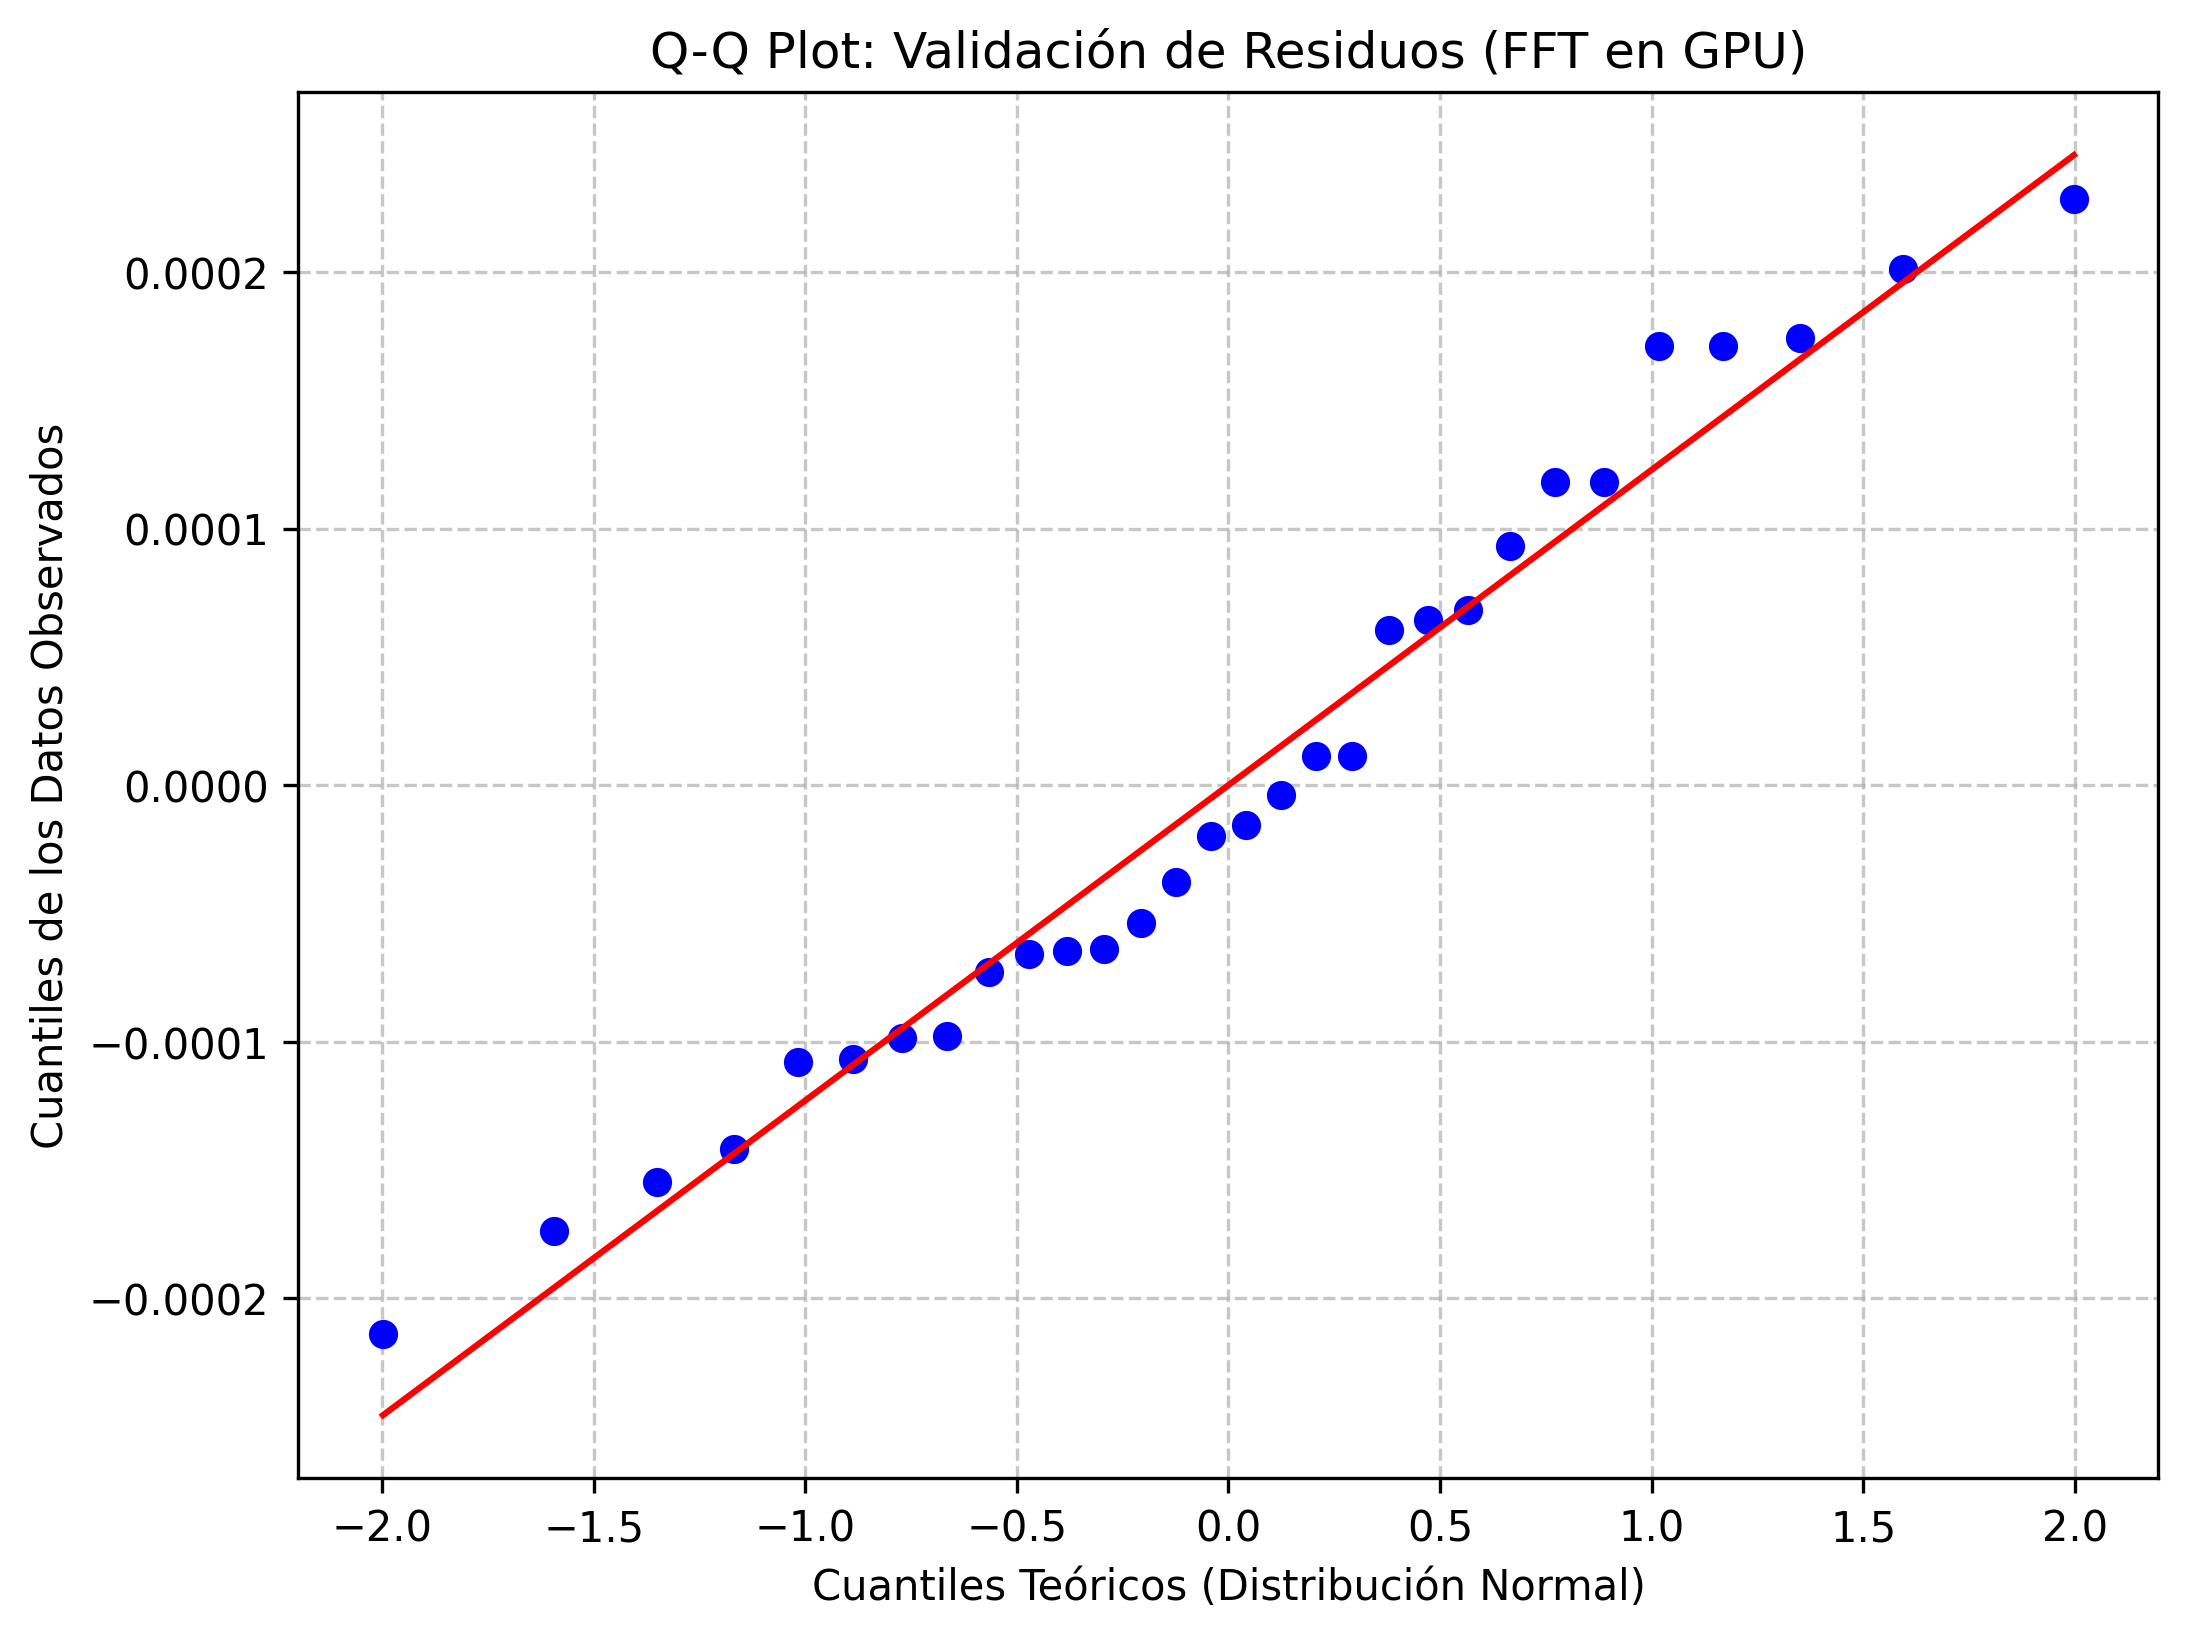
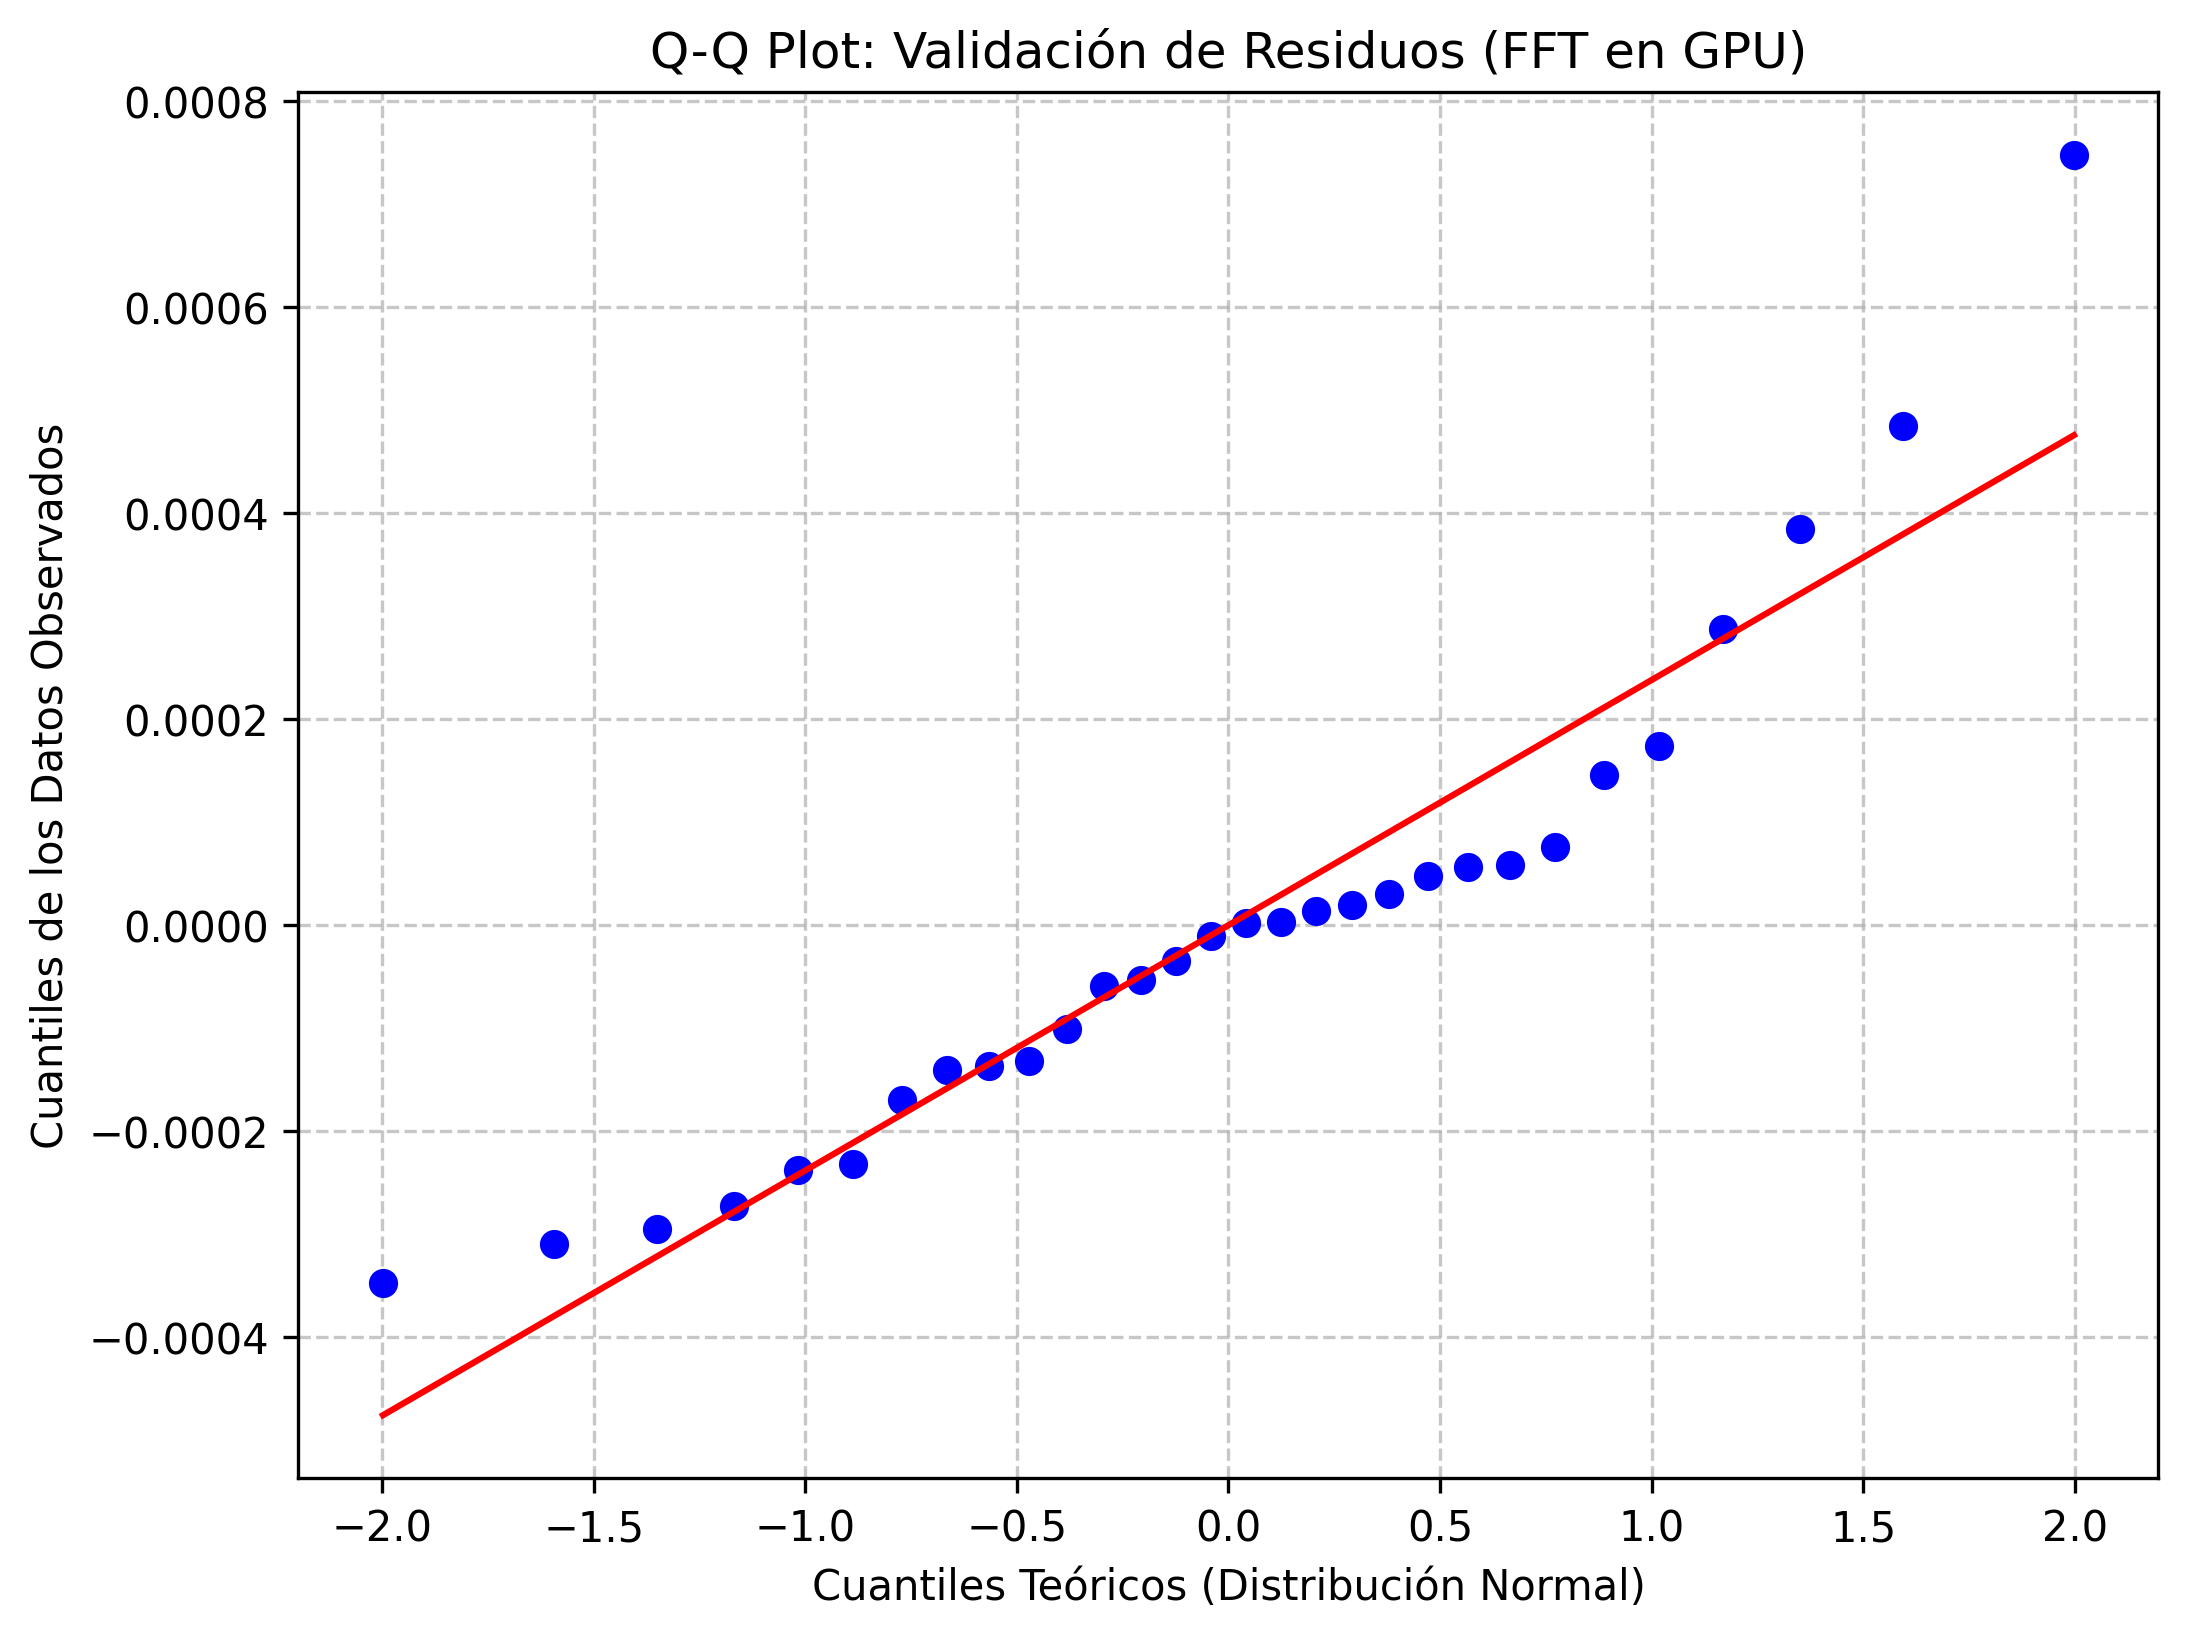
correción fft cpu

diff --git a/algoritmos/fft_cpu.c b/algoritmos/fft_cpu.c
@@ -640,7 +640,11 @@ static void benchmark_fft_float(const FftConfig *cfg) {
             if (out && cfg->layout != 'I') fftwf_free(out);
             return;
         }
-        fill_complex_float(in, total_real);
+        if (g_fft_loaded_from_file && g_fft_input_c32 != NULL) {
+            memcpy(in, g_fft_input_c32, sizeof(fftwf_complex) * total_real);
+        } else {
+            fill_complex_float(in, total_real);
+        }
 
         plan = fftwf_plan_many_dft(rank, dims, cfg->batch,
                                    in, NULL, 1, (int)nreal,
@@ -720,7 +724,11 @@ static void benchmark_fft_float(const FftConfig *cfg) {
             return;
         }
         if (g_fft_loaded_from_file && g_fft_input_f32 != NULL) {
-            // Data already loaded from file (would be from line above)
+            size_t logical_count = total_real;
+            memcpy(in, g_fft_input_f32, sizeof(float) * logical_count);
+            if (cfg->layout == 'I' && total_real_inplace > logical_count) {
+                memset(in + logical_count, 0, sizeof(float) * (total_real_inplace - logical_count));
+            }
         } else {
             fill_real_float(in, total_real);
             if (cfg->layout == 'I' && total_real_inplace > total_real) {
@@ -800,7 +808,11 @@ static void benchmark_fft_float(const FftConfig *cfg) {
             out = (float *)fftwf_malloc(sizeof(float) * total_real);
         }
 
-        fill_complex_float(in, cfg->layout == 'I' ? total_complex : total_complex);
+        if (g_fft_loaded_from_file && g_fft_input_c32 != NULL) {
+            memcpy(in, g_fft_input_c32, sizeof(fftwf_complex) * total_complex);
+        } else {
+            fill_complex_float(in, total_complex);
+        }
 
         plan = fftwf_plan_many_dft_c2r(rank, dims, cfg->batch,
                                        in, inembed_ptr, 1, idist,

diff --git a/benchmark_runner.py b/benchmark_runner.py
@@ -1375,23 +1375,6 @@ def run_fft(args):
                     )
                     
                     try:
-                        if args.fft_warmup > 0:
-                            run_fft_warmup(
-                                binary,
-                                nx,
-                                ny,
-                                nz,
-                                batch,
-                                precision,
-                                domain,
-                                direction,
-                                layout,
-                                args.fft_plan,
-                                args.fft_warmup,
-                                args.timeout,
-                                matrix_file,
-                            )
-                        
                         for rep in range(args.repetitions):
                             done += 1
                             result = run_single_case_fft(
@@ -1407,7 +1390,7 @@ def run_fft(args):
                                 direction,
                                 layout,
                                 args.fft_plan,
-                                0,  # Warmup is 0 here since it was already done before the loop
+                                args.fft_warmup,
                                 args.fft_iters,
                                 args.timeout,
                                 matrix_file,
